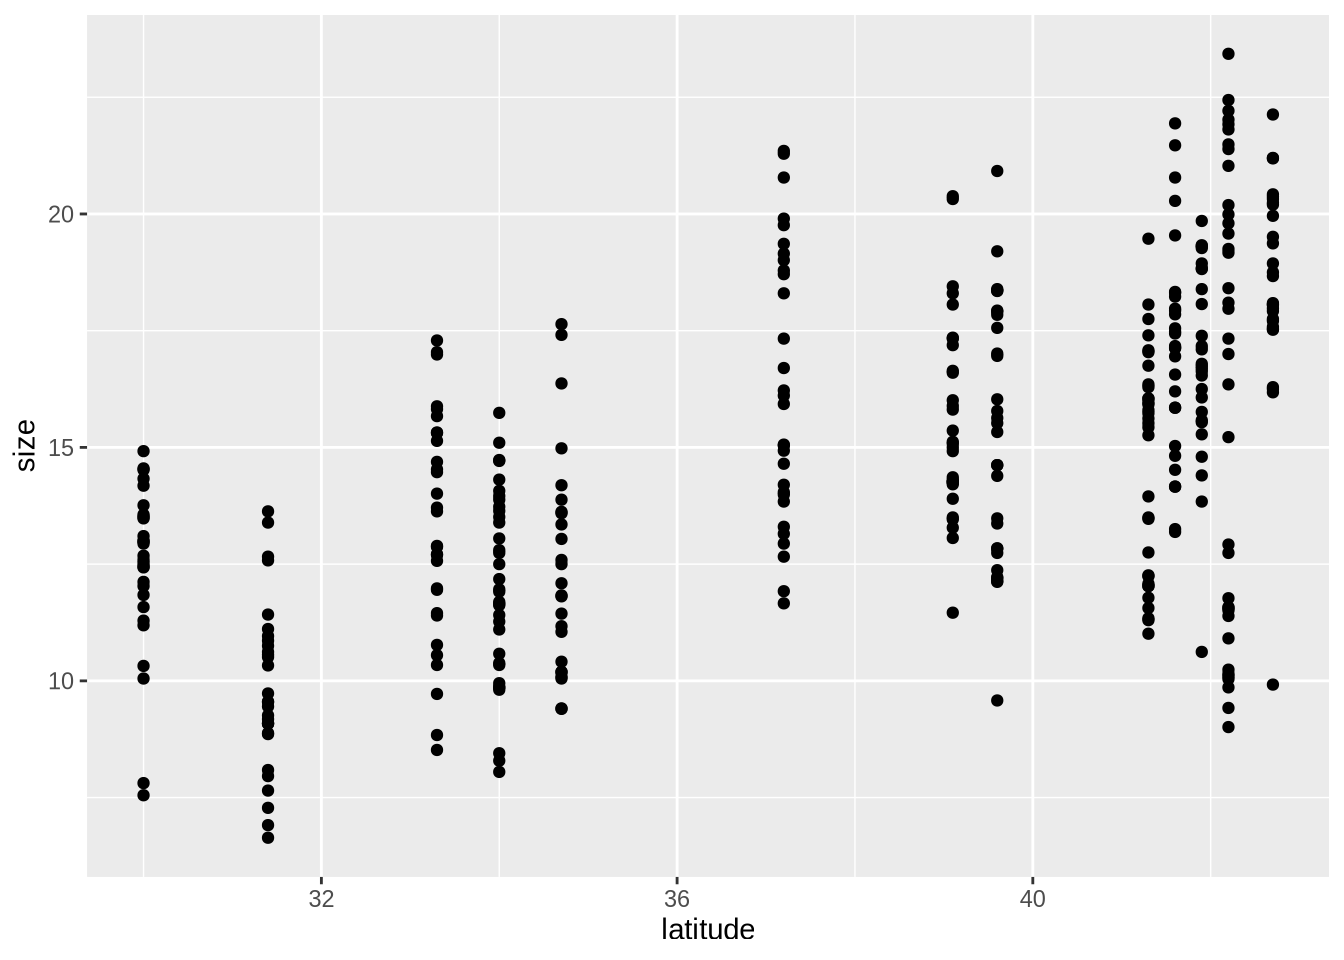
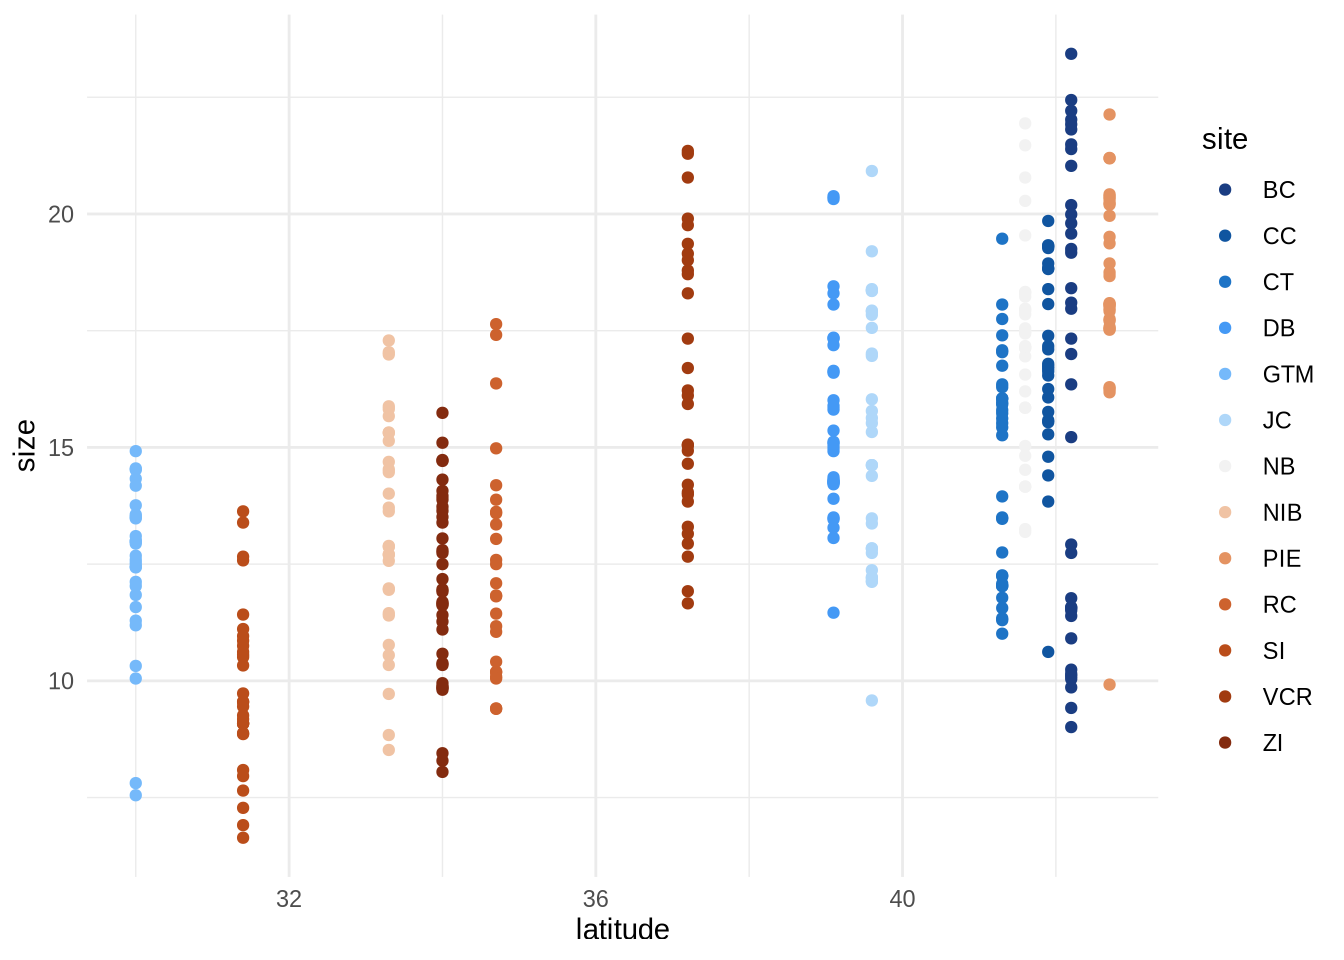
add colors and theme

diff --git a/test_doc.html b/test_doc.html
@@ -116,10 +116,11 @@ pre > code.sourceCode > span > a:first-child::before { text-decoration: underlin
 <h1>Set up</h1>
 <div class="cell">
 <div class="sourceCode cell-code" id="cb1"><pre class="sourceCode r code-with-copy"><code class="sourceCode r"><span id="cb1-1"><a href="#cb1-1" aria-hidden="true" tabindex="-1"></a><span class="fu">library</span>(tidyverse) <span class="co"># general use package</span></span>
-<span id="cb1-2"><a href="#cb1-2" aria-hidden="true" tabindex="-1"></a><span class="fu">library</span>(lterdatasampler) <span class="co"># package of datasets</span></span>
-<span id="cb1-3"><a href="#cb1-3" aria-hidden="true" tabindex="-1"></a></span>
+<span id="cb1-2"><a href="#cb1-2" aria-hidden="true" tabindex="-1"></a><span class="fu">library</span>(lterdatasampler) <span class="co"># package of data-sets</span></span>
+<span id="cb1-3"><a href="#cb1-3" aria-hidden="true" tabindex="-1"></a><span class="fu">library</span>(NatParksPalettes) <span class="co"># pakcage for color pallete</span></span>
 <span id="cb1-4"><a href="#cb1-4" aria-hidden="true" tabindex="-1"></a></span>
-<span id="cb1-5"><a href="#cb1-5" aria-hidden="true" tabindex="-1"></a><span class="fu">data</span>(pie_crab) <span class="co"># crab size dataset</span></span></code><button title="Copy to Clipboard" class="code-copy-button"><i class="bi"></i></button></pre></div>
+<span id="cb1-5"><a href="#cb1-5" aria-hidden="true" tabindex="-1"></a></span>
+<span id="cb1-6"><a href="#cb1-6" aria-hidden="true" tabindex="-1"></a><span class="fu">data</span>(pie_crab) <span class="co"># crab size dataset</span></span></code><button title="Copy to Clipboard" class="code-copy-button"><i class="bi"></i></button></pre></div>
 </div>
 </section>
 <section id="exploratory-data-visualization" class="level1">
@@ -128,9 +129,16 @@ pre > code.sourceCode > span > a:first-child::before { text-decoration: underlin
 <div class="sourceCode cell-code" id="cb2"><pre class="sourceCode r code-with-copy"><code class="sourceCode r"><span id="cb2-1"><a href="#cb2-1" aria-hidden="true" tabindex="-1"></a><span class="co"># base layer: gggplot</span></span>
 <span id="cb2-2"><a href="#cb2-2" aria-hidden="true" tabindex="-1"></a><span class="fu">ggplot</span>(<span class="at">data =</span> pie_crab, <span class="co"># dataset</span></span>
 <span id="cb2-3"><a href="#cb2-3" aria-hidden="true" tabindex="-1"></a>       <span class="fu">aes</span>(<span class="at">x =</span> latitude, <span class="co"># x-axis should be latitude, y-axis is crab size</span></span>
-<span id="cb2-4"><a href="#cb2-4" aria-hidden="true" tabindex="-1"></a>           <span class="at">y =</span> size)) <span class="sc">+</span> </span>
-<span id="cb2-5"><a href="#cb2-5" aria-hidden="true" tabindex="-1"></a>  <span class="co"># first layer: points to represent individual crabs </span></span>
-<span id="cb2-6"><a href="#cb2-6" aria-hidden="true" tabindex="-1"></a>    <span class="fu">geom_point</span>()</span></code><button title="Copy to Clipboard" class="code-copy-button"><i class="bi"></i></button></pre></div>
+<span id="cb2-4"><a href="#cb2-4" aria-hidden="true" tabindex="-1"></a>           <span class="at">y =</span> size,</span>
+<span id="cb2-5"><a href="#cb2-5" aria-hidden="true" tabindex="-1"></a>           <span class="at">color =</span> site)) <span class="sc">+</span> </span>
+<span id="cb2-6"><a href="#cb2-6" aria-hidden="true" tabindex="-1"></a>  <span class="co"># first layer: points to represent individual crabs </span></span>
+<span id="cb2-7"><a href="#cb2-7" aria-hidden="true" tabindex="-1"></a>    <span class="fu">geom_point</span>() <span class="sc">+</span></span>
+<span id="cb2-8"><a href="#cb2-8" aria-hidden="true" tabindex="-1"></a>    <span class="co"># changing colors ot be different from default</span></span>
+<span id="cb2-9"><a href="#cb2-9" aria-hidden="true" tabindex="-1"></a>    <span class="fu">scale_color_manual</span>( </span>
+<span id="cb2-10"><a href="#cb2-10" aria-hidden="true" tabindex="-1"></a>      <span class="at">values =</span> <span class="fu">natparks.pals</span>(<span class="st">"Arches"</span>, <span class="at">n =</span> <span class="dv">13</span>, <span class="at">type =</span> <span class="st">"continuous"</span>)</span>
+<span id="cb2-11"><a href="#cb2-11" aria-hidden="true" tabindex="-1"></a>    ) <span class="sc">+</span> </span>
+<span id="cb2-12"><a href="#cb2-12" aria-hidden="true" tabindex="-1"></a>      <span class="co"># adding theme </span></span>
+<span id="cb2-13"><a href="#cb2-13" aria-hidden="true" tabindex="-1"></a>      <span class="fu">theme_minimal</span>()</span></code><button title="Copy to Clipboard" class="code-copy-button"><i class="bi"></i></button></pre></div>
 <div class="cell-output-display">
 <div>
 <figure class="figure">
